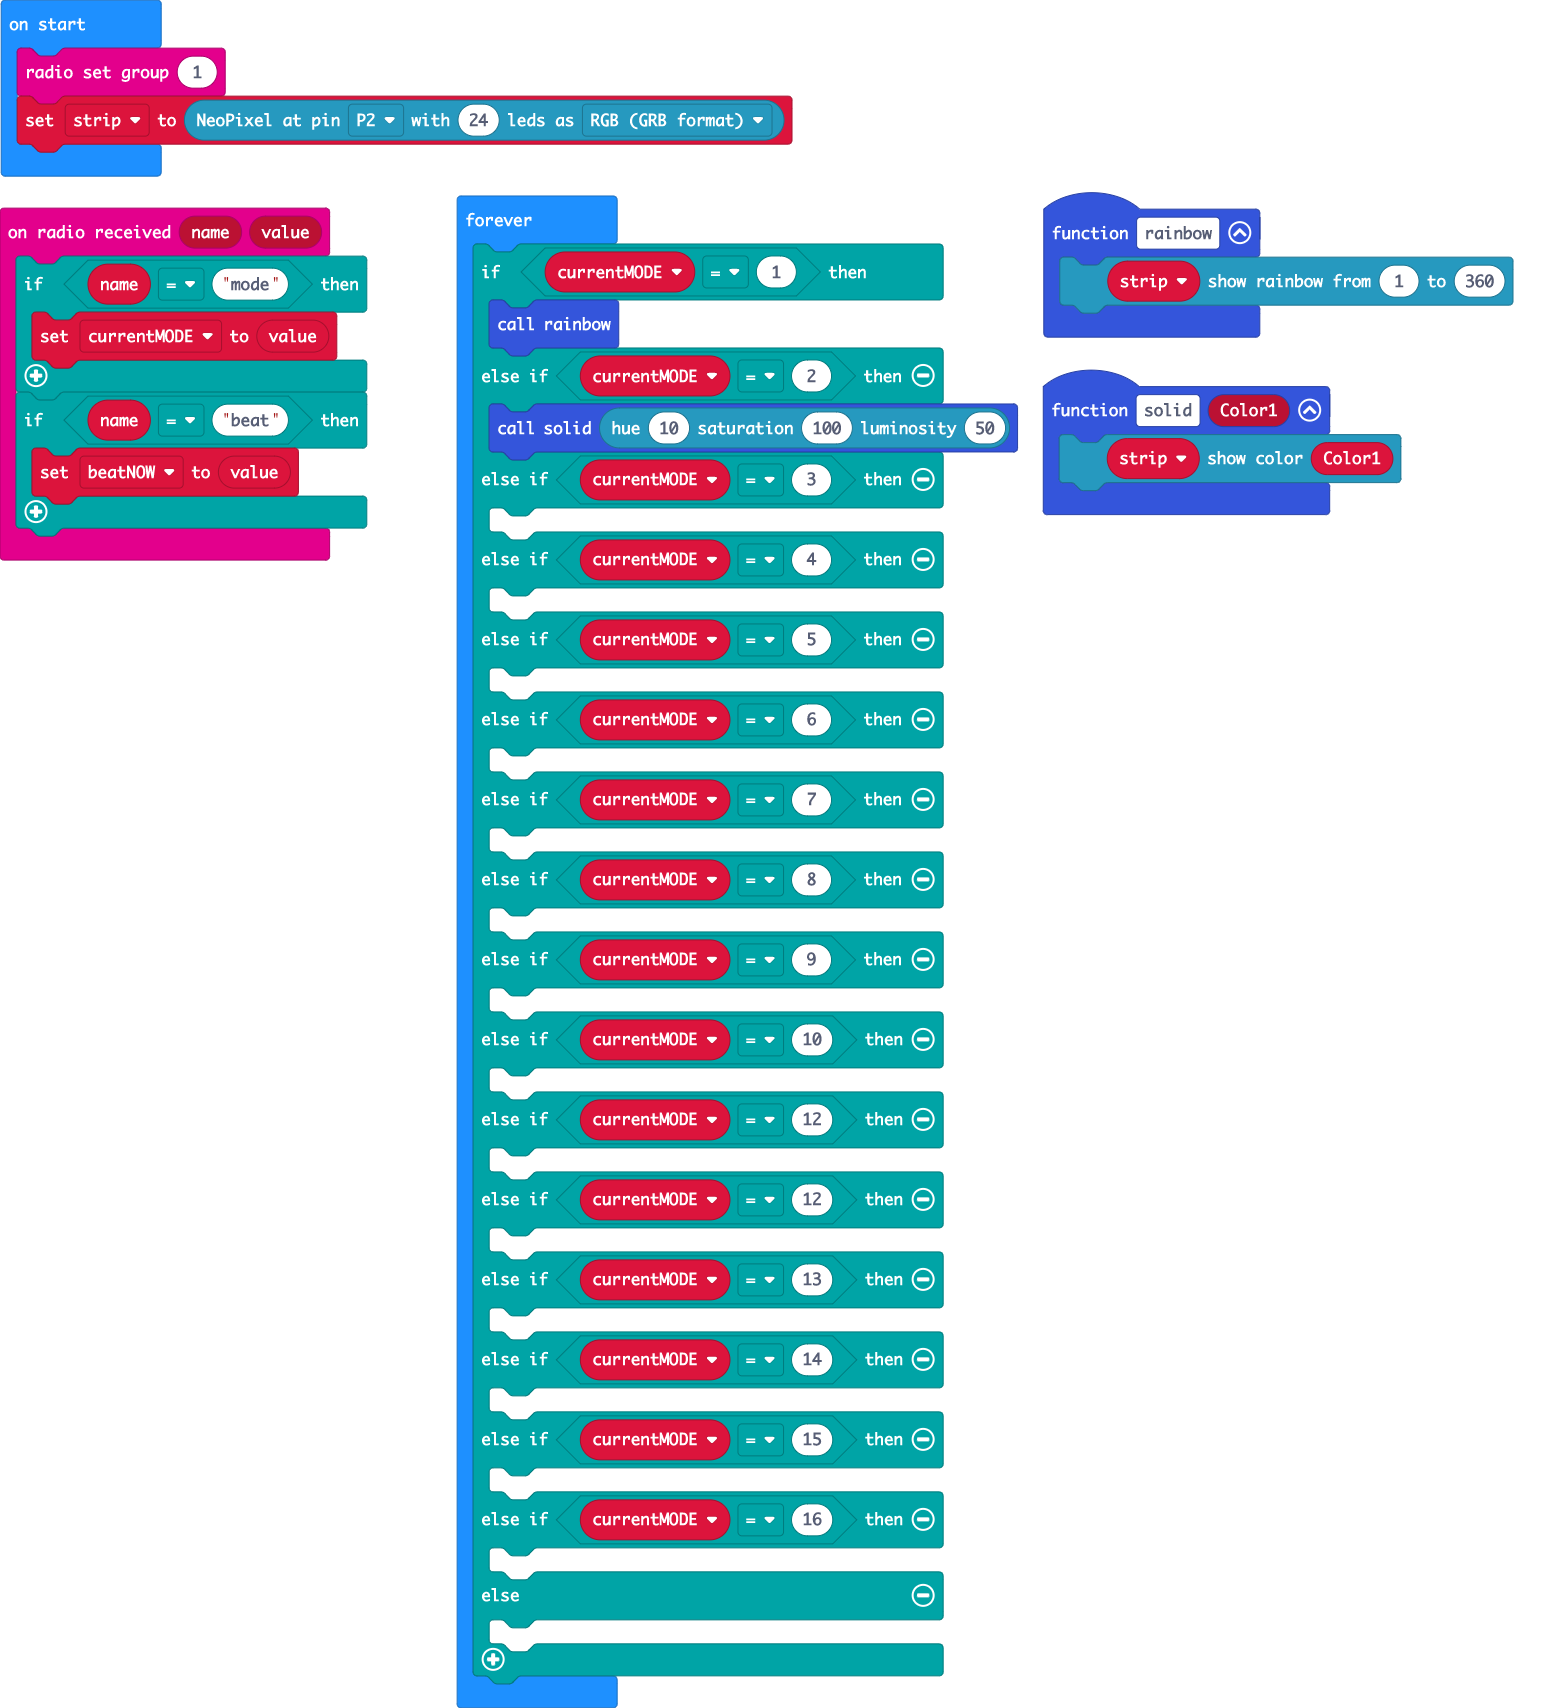
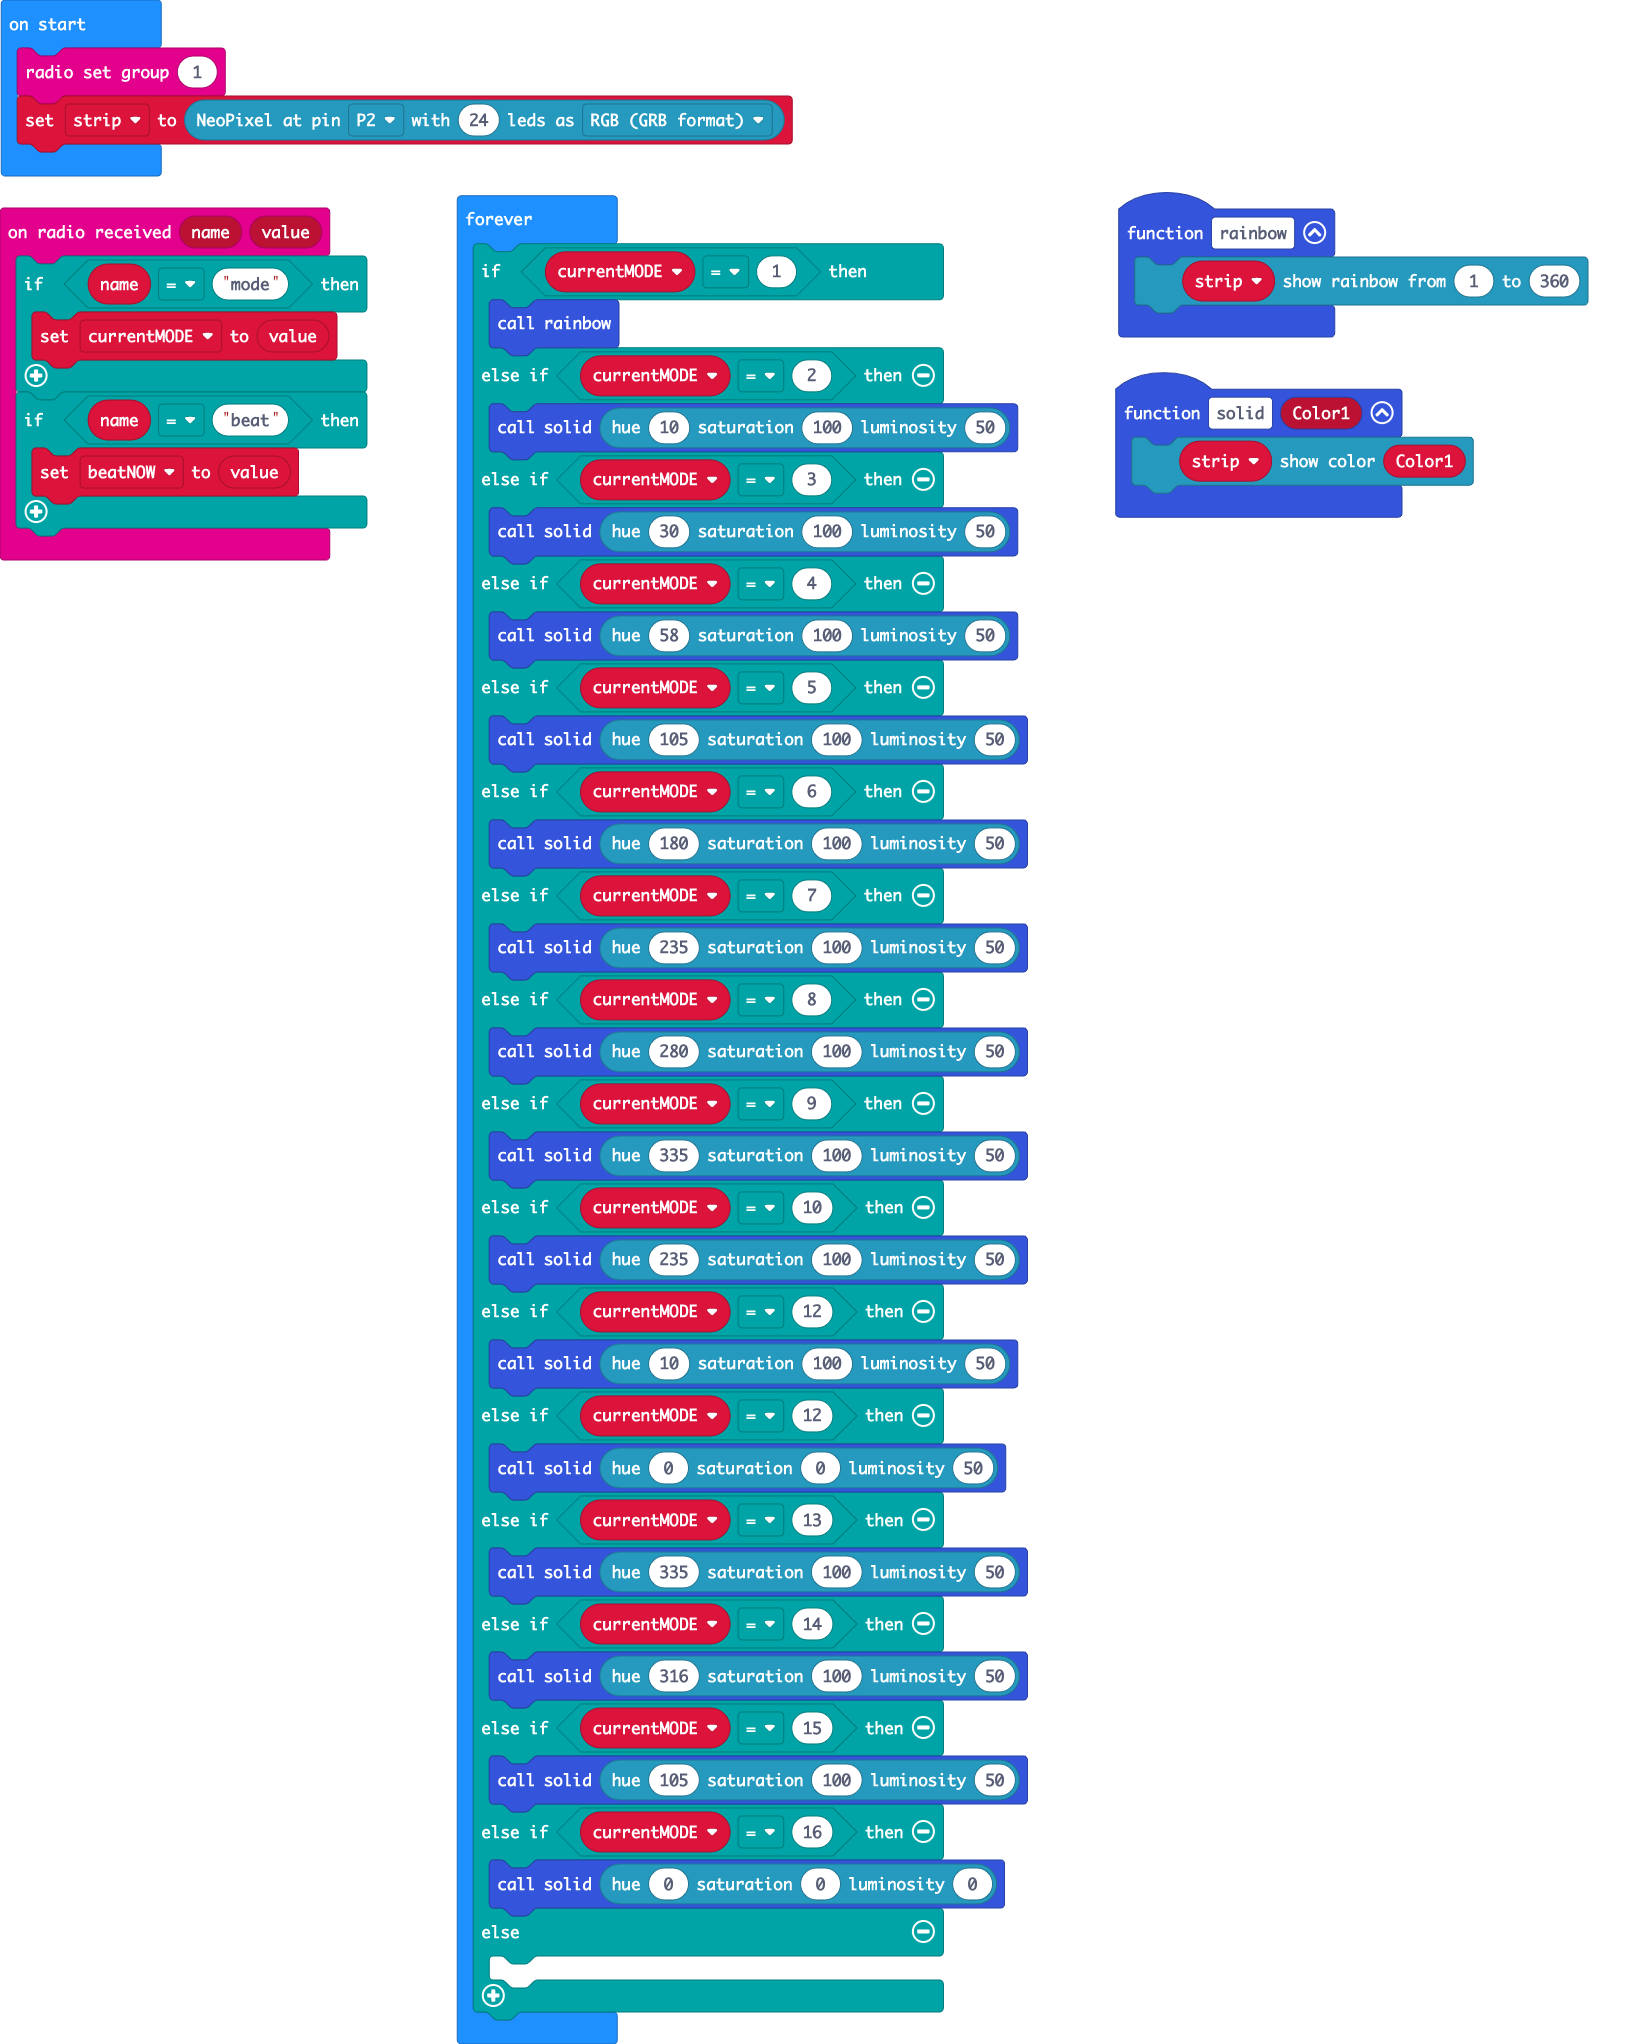
Update main.blocks, main.ts

diff --git a/main.ts b/main.ts
@@ -23,33 +23,33 @@ basic.forever(function () {
     } else if (currentMODE == 2) {
         solid(neopixel.hsl(10, 100, 50))
     } else if (currentMODE == 3) {
-    	
+        solid(neopixel.hsl(30, 100, 50))
     } else if (currentMODE == 4) {
-    	
+        solid(neopixel.hsl(58, 100, 50))
     } else if (currentMODE == 5) {
-    	
+        solid(neopixel.hsl(105, 100, 50))
     } else if (currentMODE == 6) {
-    	
+        solid(neopixel.hsl(180, 100, 50))
     } else if (currentMODE == 7) {
-    	
+        solid(neopixel.hsl(235, 100, 50))
     } else if (currentMODE == 8) {
-    	
+        solid(neopixel.hsl(280, 100, 50))
     } else if (currentMODE == 9) {
-    	
+        solid(neopixel.hsl(335, 100, 50))
     } else if (currentMODE == 10) {
-    	
+        solid(neopixel.hsl(235, 100, 50))
     } else if (currentMODE == 12) {
-    	
+        solid(neopixel.hsl(10, 100, 50))
     } else if (currentMODE == 12) {
-    	
+        solid(neopixel.hsl(0, 0, 50))
     } else if (currentMODE == 13) {
-    	
+        solid(neopixel.hsl(335, 100, 50))
     } else if (currentMODE == 14) {
-    	
+        solid(neopixel.hsl(316, 100, 50))
     } else if (currentMODE == 15) {
-    	
+        solid(neopixel.hsl(105, 100, 50))
     } else if (currentMODE == 16) {
-    	
+        solid(neopixel.hsl(0, 0, 0))
     } else {
     	
     }
